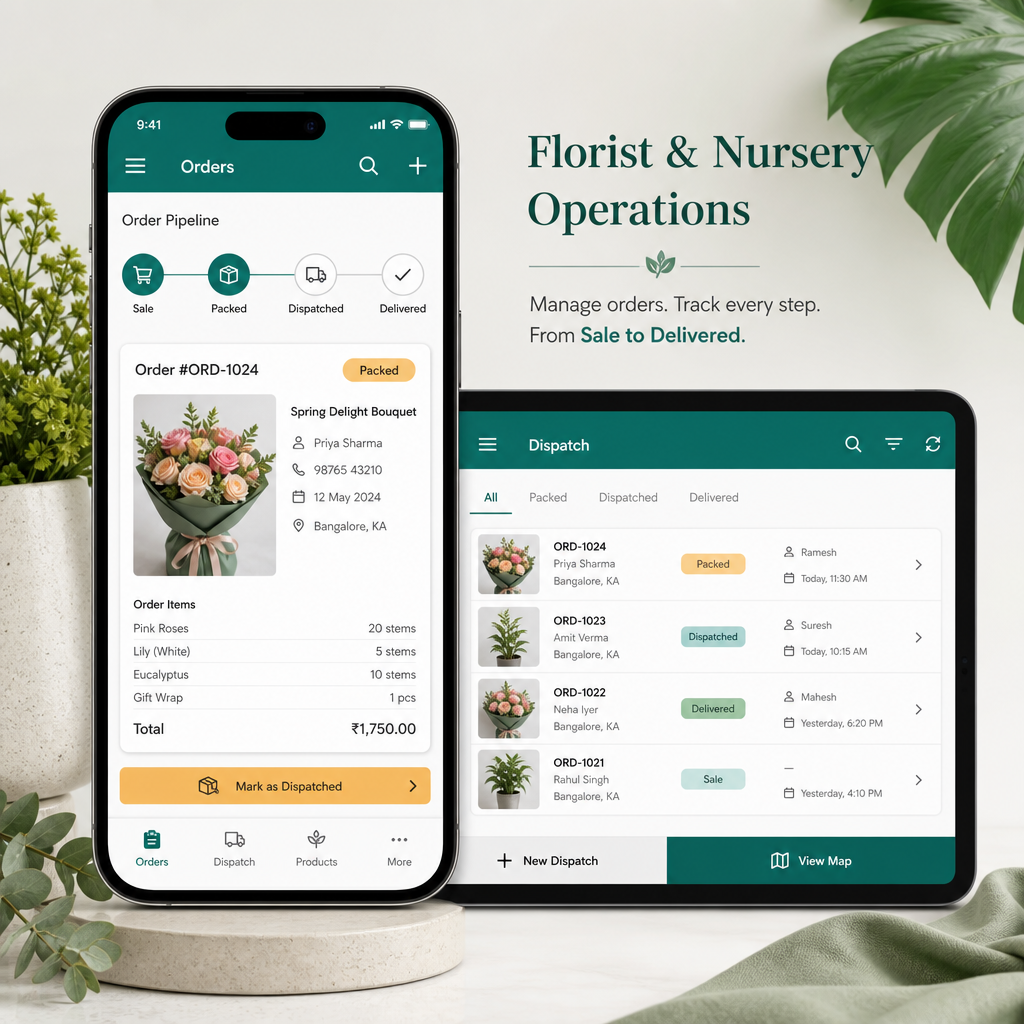
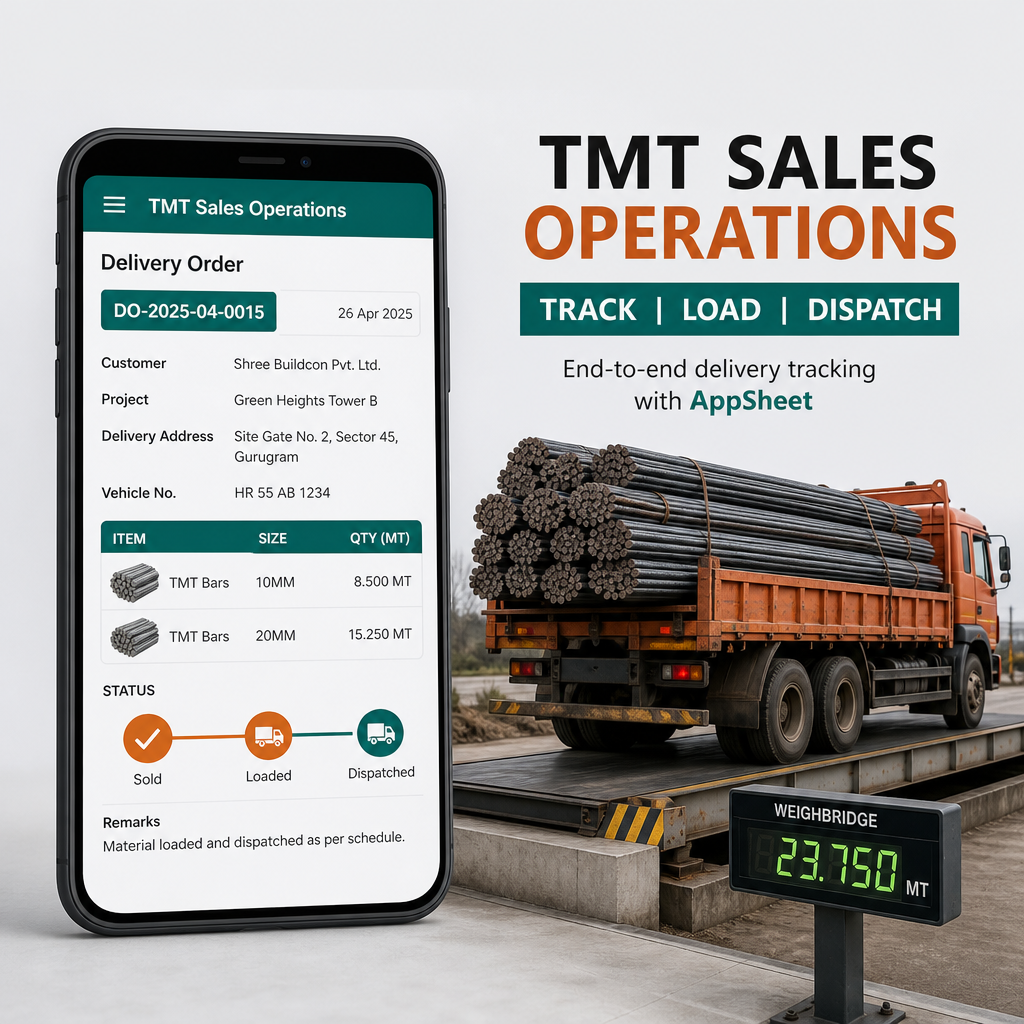
fix(templates): describe TMT bars sales-to-dispatch, drop flora
The AppSheet listing now matches the MS TMT Bars workbook — direct and retail sales, kanta load/unload, and vehicle tracking.

diff --git a/src/lib/templates/seed-products.ts b/src/lib/templates/seed-products.ts
@@ -40,11 +40,11 @@ export const TEMPLATE_PRODUCT_SEEDS: Array<{
   },
   {
     slug: "appsheet-sales-to-dispatch",
-    name: "Sales to Dispatch – Flora (AppSheet)",
+    name: "TMT Bars – Sales to Dispatch (AppSheet)",
     type: "APPSHEET",
     priceInr: 9999,
     description:
-      "AppSheet for florists and nurseries — take a sale, pack it, and dispatch it in one flow. Capture customer orders and line items, move each order from Sold → Packed → Dispatched → Delivered, assign a delivery person, and see what is still pending to go out today. Built from the DNM Flora Sales-to-Dispatch app. Pay on UPI — after confirmation we email your AppSheet copy link.",
+      "MS TMT bars — direct and retail sales with vehicle loading and unloading. Capture DOs by plant, brand, party, size, and MT/Kg; link purchase and sale sauda; weigh on kanta at load and unload; track the vehicle; split retail vs direct; and keep godown, freight, and party payments in one AppSheet. Pay on UPI — after confirmation we email your AppSheet copy link.",
     sortOrder: 9,
     thumbnailUrl: "/images/templates/appsheet-sales-to-dispatch.png",
     copyLink:
